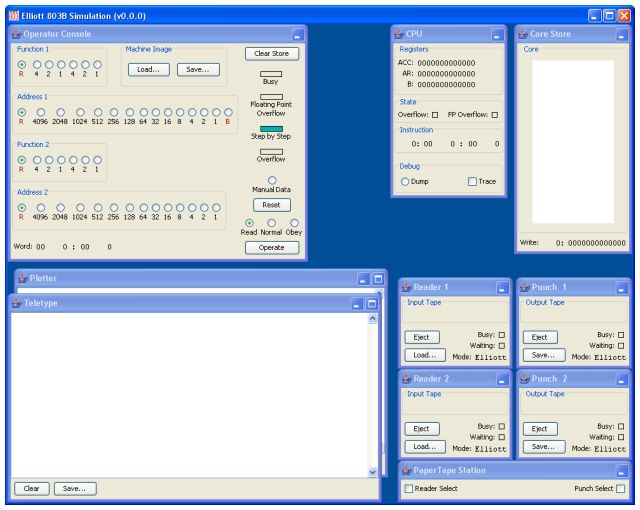
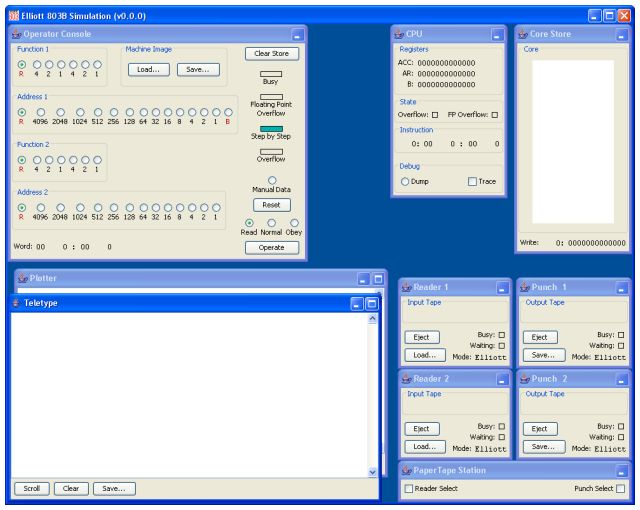
Version 1.0.0

Changed region(s): [[0.0, 0.5588, 0.5938, 1.0]]

diff --git a/docs/html/operation.html b/docs/html/operation.html
@@ -144,7 +144,8 @@ used to save the current machine image or restore a previously saved machine
 image.
 A machine image consists of the complete core memory and may also include the 
 size, position and layout of all the windows on the screen.
-They are typically saved as files with an extension of <code>.803</code>.</p>
+They are typically saved as files with an extension of 
+&quot;<code>.803</code>&quot;.</p>
 <br clear="left">
 <h3 id="opcpu">The CPU and Core Store</h3>
 <img src="image/opcpu.jpg" alt="CPU" align="left"/>
@@ -186,7 +187,8 @@ windows should be minimized.
 <h3 id="optele">The Output Teletype</h3>
 <img src="image/optele.jpg" alt="Output Teletype" align="left"/>
 <p>The output teletype shows the printed output from the computer.
-The data will scroll up as new lines are output.</p>
+The data will scroll up as new lines are output or when the <i>Scroll</i>
+button is pressed.</p>
 <p>To save output from the teletype press the <i>Save...</i> button and set a
 log file to store the output.
 New output will be appended to the end of any existing log file.
@@ -232,7 +234,7 @@ console is pressed.</li>
 <p>The paper tape station provides additional control over the tape
 readers and punches allowing the readers amd/or punches to be exchanged.
 When the appropriate option is selected the CPU will see Reader 1
-(or Punch 1) as Reader 2 (or Punch 2) and <i>vice-versa</i>.</p>
+(or Punch 1) as Reader 2 (or Punch 2) and <i>vice-versa</i>.
 <br clear="left">
 <h4 id="tmode">Tape Formats</h4>
 <p>When reading or writing files using the tape readers and tape punches you need

diff --git a/docs/html/quickstart.html b/docs/html/quickstart.html
@@ -86,7 +86,7 @@ A machine word can hold two full instructions, each instruction being represente
 a two (octal) digit op-code (6 bits) and an address from 0 to 8191 (13 bits).
 Two instructions therefore need 38 bits and that leaves one special bit (known as 
 the <i>B digit</i>) that sits between the two.</p>
-<p>Pressing just the single top left most &quot;4&quot; button (as shown in the 
+<p>Pressing just the single top left most &quot;4&quot; button (shown in the 
 red circle below) creates a pair of instructions that would be written as 
 <b>40&nbsp;0&nbsp;:&nbsp;00&nbsp;0</b>.
 The first instruction has a <b>40</b> op-code which is a jump and the target address 
@@ -96,7 +96,7 @@ matter as it will not get executed.</p>
 <center><img src="image/qs2.jpg" alt="Console"/></center>   
 <p>To execute this instruction to cause a jump to the initial instructions which will 
 then load the program in the tape reader, we use the operation buttons at the bottom right 
-(as shown in green above).</p>
+(shown in the green circle above).</p>
 <p>First ensure the <i>Read</i> button is selected and then press the <i>Operate</i>
 key.
 This reads the instruction on the word generator into the CPU ready to be run.</p>

diff --git a/docs/html/algol.html b/docs/html/algol.html
@@ -79,7 +79,7 @@ END'</code></pre></td></tr>
 <hr>
 <h2 id="using">Running ALGOL Programs</h2>
 <p>To run ALGOL programs on the Elliott 803 you must first load the ALGOL compiler.
-The compiler was supplied as two large reels of paper tape, tape 1 was the 
+The compiler was supplied as two large reels of paper tape - tape 1 was the 
 compiler itself and tape 2 was a set of run-time routines used by both the 
 compiler and the executing program.
 Getting everything to fit in 8K of store was something of a miracle and large
